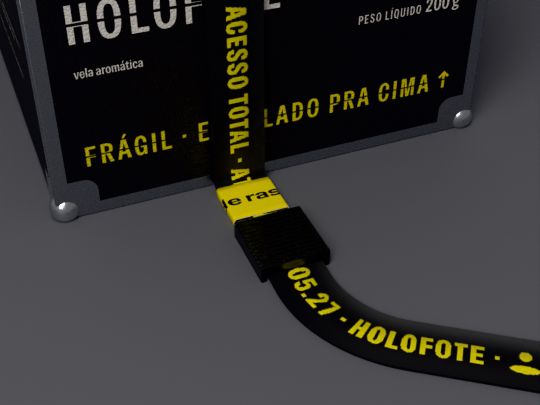
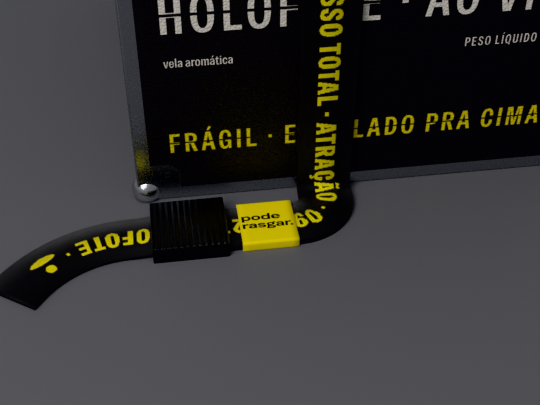
HOLOFOTE: print ink casts no shadow (caught by the UV label check on KV-45)
Claude-Session: https://claude.ai/code/session_014mavYpYo1uVZXnrTYH94be

diff --git a/kits/HOLOFOTE/_build/objects/objects_lib.py b/kits/HOLOFOTE/_build/objects/objects_lib.py
@@ -667,7 +667,7 @@ def case(state='open', open_deg=100.0, unit='HLF-CASE-02', copo=None, setlist=Tr
     copo   None or a holofote.copo() spec (lid forced 'on'), placed in the cut-out
     setlist  the folded setlist standing in its slot, setlist_rise_mm above the foam (setlist_kw -> setlist())
     band   the wristband doubled through the hasp slot, clasp + paper seal on the floor in front
-           (band_kw -> route 'side'|'drape', art_path, seal_art, seal_back, drop_mm, tail_turn_deg, with_seal)
+           (band_kw -> route 'drape'|'corner', art_path, seal_art, floor_turn_deg, tail_turn_deg, with_seal)
     Returns Built(root, base, lid, lid_pivot, tab, mirror, foam, copo, setlist, band, contract)."""
     K = case_contract(unit)
     K.update({k: v for k, v in art_override.items() if v})
@@ -1210,44 +1210,96 @@ def clasp(p, t, up, length=20.0, width=19.0, height=5.6, z_under=0.8):
     return ob
 
 
-def seal(p, t, up, stack_mm=2.0, length=15.0, strip_mm=60.0, front_art=None, back_art=None, paper=0.25):
-    """The paper seal (§C.6), uncoated papel-cartaz, wrapped round the stacked band and tail at p (mm, the centre of
-    the bottom layer's underside): `length` (15) along the band, the strip_mm (60) strip running round the stack.
-    Art = the packaging strips PULSEIRA_SELO_frente/verso.png (60 x 15 mm; x along the strip, y across): the strip's
-    centre sits on the top face (toward `up`), x increasing toward t x up (screen right when t points away from the
-    camera); its two ends overlap under the stack. The verso is the inside face, read once torn.
-    NB: a 60 mm strip round a ~16 x 2,5 mm stack shows only the middle ~16 mm of the strip on top (see LEIA_ME)."""
-    front_art = front_art or pfile('pulseira', 'PULSEIRA_SELO_frente.png') or ph('PH_SELO_frente.png')
-    back_art = back_art or pfile('pulseira', 'PULSEIRA_SELO_verso.png') or ph('PH_SELO_verso.png')
-    t, up = Vector(t).normalized(), Vector(up).normalized()
+SEAL = dict(size=(60.0, 15.0), stack=(16.0, 2.5),
+            panels=dict(left=(23.0, 25.5), top=(25.5, 41.5), right=(41.5, 44.0), bottom=(44.0, 60.0)))
+
+
+def seal_contract():
+    """The packaging team's seal: one strip PULSEIRA_SELO_faixa.png (60 x 15 mm, 20 px/mm, x = s along the strip,
+    y = across = along the band, printed OUTSIDE only) and its panel layout from PULSEIRA.json -> seal."""
+    c = dict(SEAL)
+    c['art'] = pfile('pulseira', 'PULSEIRA_SELO_faixa.png') or ph('PH_SELO_faixa.png')
+    j = pfile('pulseira', 'PULSEIRA.json')
+    if j:
+        import json
+        try:
+            S = json.load(open(j))['seal']
+            c['size'] = tuple(S['size_mm'])
+            c['stack'] = tuple(S['stack_mm'])
+            P = {p['name']: tuple(p['s_mm']) for p in S['panels']}
+            c['panels'] = dict(left=P['lado-esquerdo'], top=P['TOPO'], right=P['lado-direito'], bottom=P['BAIXO'])
+        except Exception as e:
+            print('seal_contract: json not read (%s); using defaults' % e)
+    return c
+
+
+def seal(p, t, up, read_up=(0, 1, 0), art_path=None, stack_mm=None, length=None, paper=0.25):
+    """The paper seal (§C.6, packaging redesign of 6 Oct): uncoated papel-cartaz wrapped round the stacked band and
+    tail at p (mm, the centre of the stack's underside, t along the band, `up` the outward face). The strip is
+    printed on the outside only; its panels land on the faces they were drawn for: left side, TOPO ("pode /
+    rasgar."), right side, BAIXO ("o que se guarda é a pulseira."); the inner glue wrap (s 0-23) is hidden.
+    On TOPO s increases toward read_up, so the letters' tops point toward the higher end of the strip and the text
+    reads upright for a camera that has read_up as its screen-up (default +Y: a front camera at -Y). The text lines
+    run ALONG the band, so the band must run across the frame at the seal for them to read upright.
+    art_path overrides the strip; stack_mm (default the json's 2,5) and length (15) set the wrap."""
+    C = seal_contract()
+    art_path = art_path or C['art']
+    stack_mm = stack_mm or C['stack'][1]
+    length = length or C['size'][1]
+    up = Vector(up).normalized()
+    t = Vector(t).normalized()
+    if t.cross(up).dot(Vector(read_up)) < 0:
+        t = -t                                     # choose the wrap sense: +b (= t x up) is screen-up
     b = t.cross(up).normalized()
-    w = BAND['W'] / 2 + 0.35
+    w = C['stack'][0] / 2 + 0.05                   # 16 mm stack (+ paper slack)
     z0, z1 = -0.08, stack_mm + 0.08
     rc = 0.55
-    # loop in the (b, up) plane starting at the BOTTOM centre and running counter-clockwise (-b along the top),
-    # with the start point repeated so the overlap seam lies under the stack
-    loop = [(0.0, z0)]
-    corners = [(w - rc, z0 + rc, 270), (w - rc, z1 - rc, 0), (-w + rc, z1 - rc, 90), (-w + rc, z0 + rc, 180)]
-    for cx, cz, a0 in corners:
-        for i in range(7):
-            a = math.radians(a0 + 90 * i / 6)
-            loop.append((cx + rc * math.cos(a), cz + rc * math.sin(a)))
-    loop.append((0.0, z0))
-    arc = [0.0]
-    for i in range(1, len(loop)):
-        arc.append(arc[-1] + math.hypot(loop[i][0] - loop[i - 1][0], loop[i][1] - loop[i - 1][1]))
-    P = arc[-1]
-    s_top = P / 2                                  # the top centre is half way round from the bottom centre
+    # rounded rectangle in the (b, up) plane, built panel by panel in strip order: left side (going up), top
+    # (-b -> +b), right side (going down), bottom (+b -> -b); each panel runs between corner mid-points
+    def arc(cx, cz, a0, a1, n=4):
+        return [(cx + rc * math.cos(math.radians(a0 + (a1 - a0) * i / n)),
+                 cz + rc * math.sin(math.radians(a0 + (a1 - a0) * i / n))) for i in range(n + 1)]
+    BL, TL, TR, BR = (-w + rc, z0 + rc), (-w + rc, z1 - rc), (w - rc, z1 - rc), (w - rc, z0 + rc)
+    segs = {
+        'left': arc(*BL, 225, 180) + [(-w, z0 + rc), (-w, z1 - rc)] + arc(*TL, 180, 135),
+        'top': arc(*TL, 135, 90) + [(-w + rc, z1), (w - rc, z1)] + arc(*TR, 90, 45),
+        'right': arc(*TR, 45, 0) + [(w, z1 - rc), (w, z0 + rc)] + arc(*BR, 0, -45),
+        'bottom': arc(*BR, -45, -90) + [(w - rc, z0), (-w + rc, z0)] + arc(*BL, -90, -135),
+    }
+    loop, svals = [], []
+    for name in ('left', 'top', 'right', 'bottom'):
+        pts = []
+        for q in segs[name]:
+            if not pts or math.hypot(q[0] - pts[-1][0], q[1] - pts[-1][1]) > 1e-6:
+                pts.append(q)
+        if name == 'top':                          # densify the printed face
+            dense = [pts[0]]
+            for q in pts[1:]:
+                d = math.hypot(q[0] - dense[-1][0], q[1] - dense[-1][1])
+                k = max(1, int(d / 0.4))
+                for i in range(1, k + 1):
+                    dense.append((dense[-1][0] + (q[0] - dense[-1][0]) * 1 / (k - i + 1),
+                                  dense[-1][1] + (q[1] - dense[-1][1]) * 1 / (k - i + 1)))
+            pts = dense
+        L = [0.0]
+        for i in range(1, len(pts)):
+            L.append(L[-1] + math.hypot(pts[i][0] - pts[i - 1][0], pts[i][1] - pts[i - 1][1]))
+        s0, s1 = C['panels'][name]
+        start = 1 if loop else 0                   # panels share their boundary point
+        for q, l in list(zip(pts, L))[start:]:
+            loop.append(q)
+            svals.append(s0 + (s1 - s0) * l / L[-1])
+    W_strip = C['size'][0]
     verts, faces, uvs = [], [], []
     rows = 9
     nl = len(loop)
     for j in range(rows):
         sj = -length / 2 + length * j / (rows - 1)
-        for (x, z), sa in zip(loop, arc):
+        for (x, z), sv in zip(loop, svals):
             verts.append(Vector(p) * MM + (x * b + z * up + sj * t) * MM)
-            uvs.append((0.5 - (sa - s_top) / strip_mm, j / (rows - 1)))
+            uvs.append((sv / W_strip, j / (rows - 1)))
     for j in range(rows - 1):
-        for i in range(nl - 1):
+        for i in range(nl - 1):                    # open loop: the strip's end (s 60) meets s 23 at the corner
             a_, b_ = j * nl + i, j * nl + i + 1
             faces.append((a_, a_ + nl, b_ + nl, b_))
     ob = _mesh_obj('seal', verts, faces)
@@ -1266,21 +1318,23 @@ def seal(p, t, up, stack_mm=2.0, length=15.0, strip_mm=60.0, front_art=None, bac
     sol.material_offset_rim = 2
     me.polygons.foreach_set('use_smooth', [True] * len(me.polygons))
     # (with offset +1 the original faces end up outside and the generated shell inside)
-    ob.data.materials.append(paper_material('seal_outside', front_art, AMARELO, rough=0.85))
-    ob.data.materials.append(paper_material('seal_inside', back_art, PAPEL, rough=0.85))
+    ob.data.materials.append(paper_material('seal_outside', art_path, PAPEL, rough=0.85))
+    ob.data.materials.append(paper_material('seal_inside', None, PAPEL, rough=0.85))
     ob.data.materials.append(paper_material('seal_edge', None, PAPEL, rough=0.85))
     return ob
 
 
-def _band_through_case(C=None, closed=False, route='drape', art_path=None, seal_art=None, seal_back=None,
-                       drop_mm=34.0, tail_turn_deg=55.0, with_seal=True, length=None):
+def _band_through_case(C=None, closed=False, route='drape', art_path=None, seal_art=None, floor_turn_deg=-90.0,
+                       tail_turn_deg=55.0, with_seal=True, length=None):
     """The wristband doubled through the hasp's single aligned slot (tab + base front closed, base front open).
     Built as the OUTER leg's route from inside the slot to the clasp and on into the tail; the INNER leg is the
     same route offset one band thickness toward the case/floor and reversed, so the two layers nest exactly; a
     hidden 180 deg U-turn behind the wall joins them. Side 1 (jacquard) is outward on every visible run.
-      route 'drape' (default): straight down the front face and out across the floor toward the camera; the seal
-                    and clasp lie on the floor in front, the seal reading left to right from the front / from above
-                    (C05). It crosses ~15 mm of HOLOFOTE · AO VIVO (the slot sits at x = -13 mm, above the text).
+      route 'drape' (default): straight down the front face onto the floor, then (floor_turn_deg, -90 = to the
+                    left) along the front of the case: the seal and clasp lie on the floor running across the frame,
+                    so the seal's TOPO ("pode / rasgar.", lines along the band) reads upright from the front and
+                    from above (C05). floor_turn_deg=0 runs straight at the camera (the seal then reads sideways).
+                    It crosses ~15 mm of HOLOFOTE · AO VIVO (the slot sits at x = -13 mm, above the text).
       route 'corner': left along the front face ABOVE the text, round the front-left edge, the seal and clasp on
                     the upper left face (reading from the left), the tail down to the floor. Keeps the main panel
                     clear for a front-on closed shot. (The 350 mm band cannot reach the floor doubled on this route.)
@@ -1299,7 +1353,8 @@ def _band_through_case(C=None, closed=False, route='drape', art_path=None, seal_
     out.fwd_to('y', face + 0.2).bend_to((0, 0, -1), 1.7)            # out of the slot, down the face (n = -Y)
     if route == 'drape':
         out.fwd_to('z', 1.5 + 3.0).bend_to((0, -1, 0), 3.0)        # onto the floor, toward the camera (n = +Z)
-        out.fwd(drop_mm - 4.5 - 10.0 - 3.0 - 15.0 - 3.0)
+        out.fwd(1.0).turn(floor_turn_deg, 10.0)                     # then across the frame, in front of the case
+        out.fwd(1.0)
         read = Vector((0, 1, 0))
         tail = [('bend', -9.0, 30.0), ('bend', 9.0, 30.0), ('turn', tail_turn_deg, 34.0), ('fwd', 400.0)]
     else:
@@ -1343,8 +1398,7 @@ def _band_through_case(C=None, closed=False, route='drape', art_path=None, seal_
         # the seal sits on the doubled run just before the clasp (case side), its text reading left->right from -Y
         k = [smp_ for smp_ in out.samples if smp_[3] <= out.marks['seal0'][3] + 7.5]
         sp, st, sn, _ = k[-1]
-        st_read = st if st.dot(read) > 0 else -st
-        sl = seal(sp - sn * 1.5, st_read, sn, stack_mm=2.0, front_art=seal_art, back_art=seal_back)
+        sl = seal(sp - sn * 1.5, st, sn, read_up=read, art_path=seal_art)
     return Built(band=band, clasp=cl, seal=sl, length=tt.samples[-1][3])
 
 

diff --git a/kits/HOLOFOTE/_build/anuncio/animatic_previs.py b/kits/HOLOFOTE/_build/anuncio/animatic_previs.py
@@ -1,0 +1,128 @@
+"""Previs plates for the O ANÚNCIO animatics (platform §F.1–F.2): grey mannequins in A ESCOLA, framed AROUND the ad's
+type layout so the client sees where every word will land on the people layer.
+
+    _build/shots/blender.sh animatic_previs.py -- SHOT [SHOT ...] [--samples 32] [--pct 50]
+
+Shots (each writes _tmp_animatic/plates/<SHOT>[_<key>].png at 1080 x 1920 x pct):
+  SIT_H01  SIT_H02        0–6 s talk, seated on the stage edge (1A 1B 3A 3B / 1C 3C)
+  USHER_H01               0–6 s talk, standing centre stage, hands behind the back (2A 2B)
+  CLAP_H01  CLAP_H02      6–9 s Ad 1: slid off the stage, standing on the floor; keys A (apart) / M / B (together)
+  PHONE_H01               6–9 s Ad 2: phone up, flash on, back to camera; sway keys L2 L1 C R1 R2 (root roll)
+  HEART_H01 HEART_H02     6–9 s Ad 3: seated finger-heart -> point; keys A / M / B; camera yawed 18 deg so the point reads
+
+Framing rule (1080 x 1920 space): the face never sits under type.
+  talk:  tag plate y 560–620 at x 120  -> head top below y 640;  captions y 1000–1240 -> chin above y 990.
+  gesture: title y 760–860            -> head and the gesture (hands, phone) above y 750, or the hands below 870.
+All presenters: 50 mm, eye level (tilt 0), f/4, the APRESENTADORA front-left spot re-aimed at the mark.
+The presenter never holds the pack; no candle and no flame anywhere in these plates (CONAR art. 33)."""
+import sys, os, math
+HERE = os.path.dirname(os.path.abspath(__file__))
+B = os.path.abspath(os.path.join(HERE, '..'))
+sys.path.insert(0, os.path.join(B, 'sets'))
+sys.path.insert(0, os.path.join(B, 'objects'))
+import bpy
+from mathutils import Vector, Matrix
+import sets_lib as S
+import objects_lib as O
+
+OUT = os.path.join(HERE, '_tmp_animatic', 'plates')
+F_PX = 50.0 / 36.0 * 1920.0          # focal length in px at 1920 (sensor fit AUTO, 36 mm on the long side)
+
+# ------------------------------------------------------------------------------------------------ extra pose 'e'
+# hands behind the back, like a theatre usher (§F.2 Ad 2 hook). Built on the standing skeleton of pose 'c' with both
+# arms re-solved by the library's own two-bone IK; nothing in objects_lib is edited.
+_orig_pose = O._pose_skeleton
+
+
+def _pose_skeleton(Bd, pose, key):
+    if pose != 'e':
+        return _orig_pose(Bd, pose, key)
+    J, F = _orig_pose(Bd, 'c', key)
+    Hh = Bd['H']
+    L = {k: v * Hh for k, v in O.SEG.items()}
+    pel = J['pelvis']
+    for s, side in ((1, 'L'), (-1, 'R')):
+        sh = J['shoulder_' + side]
+        w = Vector((s * 0.040, pel.y + 0.125, pel.z + 0.085))
+        el, wr = O._ik2(sh, w, L['ua'], L['fa'], (s * 1.0, 0.55, -0.2))
+        J['elbow_' + side], J['wrist_' + side] = el, wr
+        J['uarm_' + side] = sh.lerp(el, 0.45)
+        J['farm_' + side] = el.lerp(wr, 0.5)
+        F['hand_' + side] = (wr, O._frame((-s * 0.55, 0.25, -0.8), (0, 1, 0)), 'rest')
+    return J, F
+
+
+O._pose_skeleton = _pose_skeleton
+
+# ------------------------------------------------------------------------------------------------ shots
+# mark: root position (x, y, z). frame: head-centre pixel (1080 space) and pixels per metre at the head's depth.
+SEAT_X = -0.60                     # the set's presenter mark (the flower heart on the TNT reads behind-right)
+SHOTS = {
+    'SIT_H01':   dict(body='H01', pose='a', mark=(SEAT_X, 0.0, 0.45), head_px=(540, 815), ppm=1333, keys={'': None}),
+    'SIT_H02':   dict(body='H02', pose='a', mark=(SEAT_X, 0.0, 0.45), head_px=(540, 815), ppm=1333, keys={'': None}),
+    'USHER_H01': dict(body='H01', pose='e', mark=(0.0, 0.95, 0.45), head_px=(540, 795), ppm=1150, keys={'': None}),
+    'CLAP_H01':  dict(body='H01', pose='b', mark=(SEAT_X, -0.55, 0.0), head_px=(540, 590), ppm=1150,
+                      keys={'A': 1, 'M': 7, 'B': 13}),
+    'CLAP_H02':  dict(body='H02', pose='b', mark=(SEAT_X, -0.55, 0.0), head_px=(540, 590), ppm=1150,
+                      keys={'A': 1, 'M': 7, 'B': 13}),
+    'PHONE_H01': dict(body='H01', pose='c', mark=(0.0, 0.95, 0.45), head_px=(540, 600), ppm=900,
+                      keys={'L2': -3.2, 'L1': -1.6, 'C': 0.0, 'R1': 1.6, 'R2': 3.2}, sway=True),
+    'HEART_H01': dict(body='H01', pose='d', mark=(SEAT_X, 0.0, 0.45), head_px=(560, 410), ppm=1300, yaw=-18.0,
+                      keys={'A': 1, 'M': 7, 'B': 13}),
+    'HEART_H02': dict(body='H02', pose='d', mark=(SEAT_X, 0.0, 0.45), head_px=(560, 410), ppm=1300, yaw=-18.0,
+                      keys={'A': 1, 'M': 7, 'B': 13}),
+}
+
+
+def build(name, samples, pct):
+    sp = SHOTS[name]
+    res = (1080, 1920)
+    sc = S.cena(res=res, samples=samples)
+    sc.render.resolution_percentage = pct
+    h = S.escola(preset='APRESENTADORA', presenter_x=SEAT_X)
+    two = sp['pose'] in ('b', 'd')
+    m = O.previs(sp['body'], sp['pose'], key=None if two else 'A', frames=(1, 13), at=sp['mark'])
+    bpy.context.scene.frame_set(1)
+    bpy.context.view_layer.update()
+    head = m.parts['head'].matrix_world.translation.copy()
+    # re-aim the front-of-house spot at this mark (same lantern position, energy scaled to keep the irradiance)
+    spot = h['spot']
+    tgt = Vector((sp['mark'][0], sp['mark'][1] + (0.14 if sp['pose'] in ('a', 'd') else 0.0),
+                  head.z - 0.30))
+    old = h['throw']
+    S._aim(spot, tgt)
+    new = (spot.location - tgt).length
+    spot.data.energy *= (new / old) ** 2
+    # camera: eye level, 50 mm, d = F / ppm from the head, optionally orbited (yaw) about the head
+    d = F_PX / sp['ppm']
+    yaw = sp.get('yaw', 0.0)
+    off = Matrix.Rotation(math.radians(yaw), 3, 'Z') @ Vector((0.0, -d, 0.0))
+    loc = head + off
+    px = (sp['head_px'][0], sp['head_px'][1])
+    S.camera_pin(tuple(loc), yaw, 0.0, 50.0, res, tuple(head), px, fstop=4.0, focus=d)
+    sc.render.resolution_percentage = pct
+    return sp, m
+
+
+def main():
+    a = sys.argv[sys.argv.index('--') + 1:] if '--' in sys.argv else sys.argv[1:]
+    samples = int(a[a.index('--samples') + 1]) if '--samples' in a else 32
+    pct = int(a[a.index('--pct') + 1]) if '--pct' in a else 50
+    shots = [x for x in a if x in SHOTS] or list(SHOTS)
+    os.makedirs(OUT, exist_ok=True)
+    for name in shots:
+        sp, m = build(name, samples, pct)
+        for k, v in sp['keys'].items():
+            if sp.get('sway'):
+                # sway: roll the whole figure about the feet (root on the stage), the phone moves ~6 cm per degree
+                m.root.rotation_euler = (0.0, math.radians(v), 0.0)
+                bpy.context.scene.frame_set(1)
+            elif v is not None:
+                bpy.context.scene.frame_set(v)
+            p = os.path.join(OUT, name + ('_' + k if k else '') + '.png')
+            S.render(p)
+            print('PLATE', p, flush=True)
+
+
+if __name__ == '__main__':
+    main()

diff --git a/kits/HOLOFOTE/_build/objects/make_placeholders.py b/kits/HOLOFOTE/_build/objects/make_placeholders.py
@@ -153,9 +153,18 @@ def main():
         x += 34 * ppm
     wb.save(os.path.join(OUT, 'PH_PULSEIRA_jacquard.png'))
     # Paper seal faces (the visible top face of the wrap, as seen; and the back face)
-    # paper seal: the 60 x 15 strip (x along the strip, which wraps round band + tail), front and back
-    face(60, 15, AMARELO, (0x55, 0x52, 0x40), 'SELO', ppm=20, arrow=True).save(os.path.join(OUT, 'PH_SELO_frente.png'))
-    face(60, 15, PAPEL, GREY_ON_LIGHT, 'SELO VERSO', ppm=20, arrow=True).save(os.path.join(OUT, 'PH_SELO_verso.png'))
+    # paper seal: ONE 60 x 15 strip printed outside (x = s along the strip): s 23-44 amarelo (sides + TOPO),
+    # TOPO 25,5-41,5 labelled with its tops toward +x, BAIXO 44-60 papel
+    ppm = 20
+    st = Image.new('RGBA', (60 * ppm, 15 * ppm), PAPEL + (255,))
+    d = ImageDraw.Draw(st)
+    d.rectangle([23 * ppm, 0, 44 * ppm, 15 * ppm], fill=AMARELO + (255,))
+    for s_ in (23, 25.5, 41.5, 44):
+        d.line([s_ * ppm, 0, s_ * ppm, 15 * ppm], fill=(0x55, 0x52, 0x40, 255), width=2)
+    lab = Image.new('RGBA', (15 * ppm, 16 * ppm), (0, 0, 0, 0))
+    ImageDraw.Draw(lab).text((20, 90), 'SELO TOPO', font=font(46), fill=(0x55, 0x52, 0x40, 255))
+    st.alpha_composite(lab.rotate(-90, expand=True), (int(25.5 * ppm), 0))
+    st.save(os.path.join(OUT, 'PH_SELO_faixa.png'))
     print('placeholders ->', OUT)
 
 

diff --git a/kits/HOLOFOTE/_build/blender/holofote.py b/kits/HOLOFOTE/_build/blender/holofote.py
@@ -43,7 +43,7 @@ PANEL_R, PANEL_D = 31.0, 1.0         # recessed base panel
 COAT_T = 0.08                        # coating thickness
 COAT_TOP = 87.0                      # coating stops 1,0 mm below the rim
 PRINT_Z0, PRINT_Z1 = 18.0, 82.0
-PRINT_PROUD = 0.05
+PRINT_PROUD = 0.02
 CAP_R, CAP_H, CAP_T, CAP_LIP = 34.0, 74.0, 0.3, 1.2
 WAX_TOP = 76.0
 WICK_PROUD = 5.0
@@ -541,6 +541,9 @@ def print_shell(path, aov=False, chroma=False, segs=720):
     bpy.context.collection.objects.link(ob)
     me.polygons.foreach_set('use_smooth', [True] * len(me.polygons))
     me.materials.append(chroma_material() if chroma else print_material(path, aov))
+    # Screen-print ink has no thickness: the shell must not shadow the coating it sits on. Found 6 Oct 2026 by the
+    # UV fidelity check on KV-45 — under the hard spot every letter cast an offset copy near the terminator.
+    ob.visible_shadow = False
     return ob
 
 

diff --git a/kits/HOLOFOTE/_build/objects/test_objects.py b/kits/HOLOFOTE/_build/objects/test_objects.py
@@ -78,9 +78,9 @@ elif scene == 'band_detail':
     setup(res, int(res * 0.75))
     lookdev(floor='#77777B')
     c = O.case(state='closed', copo=None, band=True)
-    area_light((-0.4, -0.5, 0.8), (-0.02, -0.1, 0.0), 0.4, 45)
-    t = (-0.012, -0.088, 0.008)
-    camera(sph(38, -22, 0.24, t), t, 60)
+    area_light((-0.4, -0.5, 0.8), (-0.03, -0.1, 0.0), 0.4, 45)
+    t = (-0.030, -0.080, 0.008)
+    camera(sph(40, -8, 0.24, t), t, 60)
 elif scene == 'props':
     setup(res, int(res * 0.75))
     lookdev(floor='#6C6C70')
